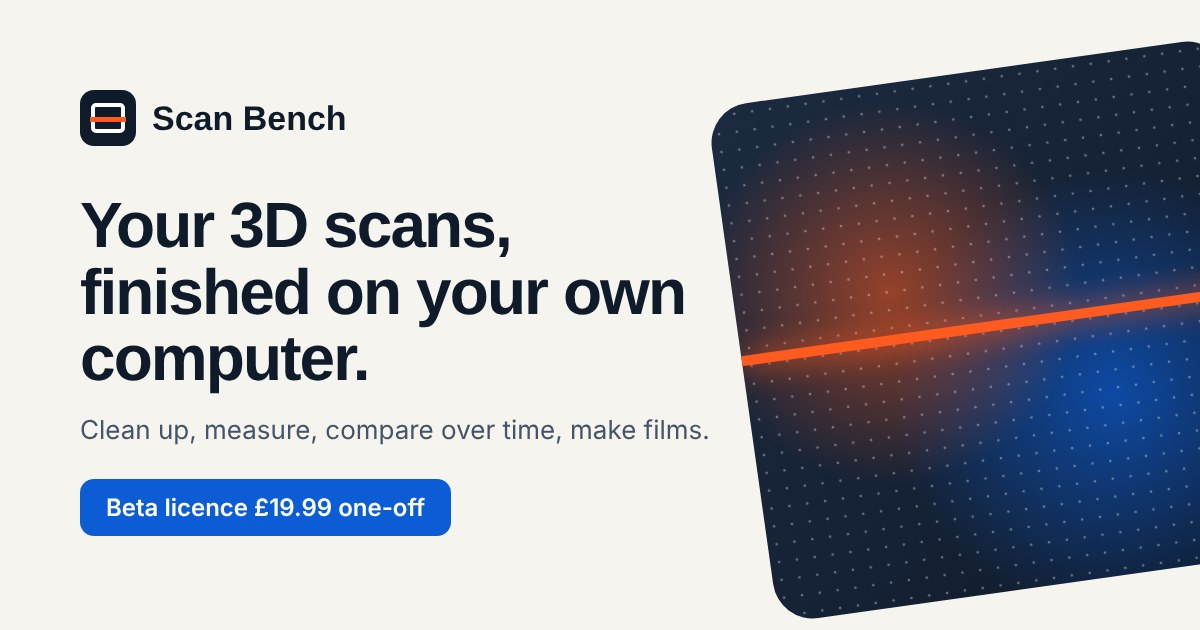
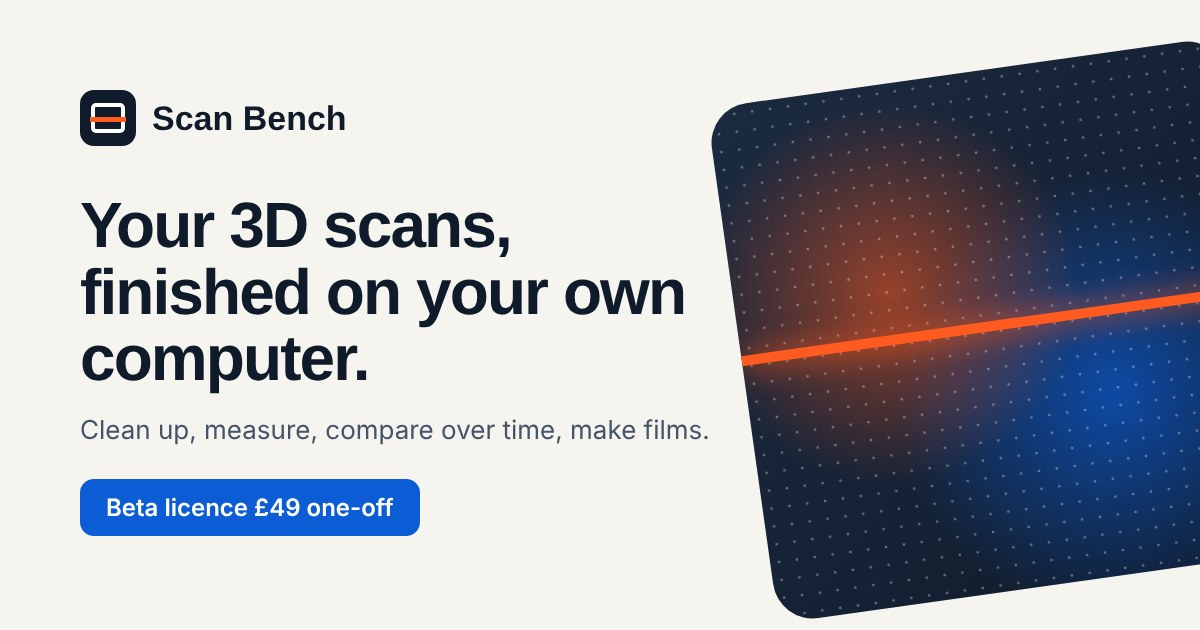
Website: beta price £49 inc. VAT
Claude-Session: https://claude.ai/code/session_01YWtuGUNTMvKgvANQvJYrwU

Changed region(s): [[0.2158, 0.754, 0.4008, 0.8746]]

diff --git a/site/terms.html b/site/terms.html
@@ -9,7 +9,7 @@
 <body>
 <header class="top"><div class="wrap"><a class="logo" href="index.html"><i></i>Scan Bench</a><nav class="menu"><a href="index.html">Home</a><a href="features.html">Features</a><a href="pricing.html">Pricing</a><a href="download.html">Buy</a><a href="help.html">Help</a><a href="contact.html">Contact</a></nav><a class="btn pri sm" href="download.html">Buy the beta</a><button class="burger" aria-label="Menu">☰</button></div></header>
 <main>
-<section class="band"><div class="wrap legal"><span class="eyebrow">Legal</span><h1>Terms of use</h1><p class="small">Last updated 20 October 2026</p><p>These terms cover buying and using Scan Bench. By buying a licence or using the app you agree to them. If you are buying as a consumer, nothing here takes away your legal rights.</p><h2>1. Who we are</h2><p>Scan Bench is made by Refresh Print Ltd, a company registered in England and Wales (company number 13642636), registered office 7 Carrier Street, Halifax, HX1 1DH, United Kingdom. We trade as Clearpath360. Email: <a href="mailto:info@clearpath360.co.uk">info@clearpath360.co.uk</a>.</p><h2>2. Who sells it to you</h2><p>Orders are processed by our reseller, Lemon Squeezy (Lemon Squeezy LLC), who acts as the merchant of record. They take the payment, charge any VAT or sales tax, and send your receipt. Their own checkout terms apply to the payment itself.</p><h2>3. Your licence</h2><p>When you buy, we give you a personal, non-transferable licence to install and use Scan Bench on up to 2 computers at a time, for your own work or your business. You can move the licence to another computer from Help &gt; Licence &gt; Move to another computer.</p><p>You may not: sell, rent, share or give away your licence key or the app; remove or get round the licence check; or copy, change or take apart the app, except where the law says you are allowed to.</p><p>The software stays ours. You own your scans, drawings, films and anything else you make with it.</p><h2>4. The beta</h2><p>Scan Bench is in beta. It is a working program that is still being improved, so it may have bugs, and features may change, move or be removed between updates. The beta licence is a one-off payment of £19.99 and covers every update while the beta runs. When the beta ends we expect to move to a subscription. We will tell beta testers the price and what happens to their beta licence before anything changes, and nothing will charge you again unless you choose to sign up.</p><h2>5. Licence checks</h2><p>The app checks your licence key online when you activate it and from time to time after that. It keeps working without internet for 14 days after the last good check. The check sends your licence key and a name for your computer, nothing about your scans.</p><h2>6. Measurements and results</h2><p>Scan Bench gives measurements, volumes, levels and drawings from the scans you open. Their accuracy depends on your scanner, your scan and how you use the tools. Check anything important (for example dimensions for construction, legal or safety purposes, or figures you will rely on for money) by another method before you rely on it. Scan Bench is not a certified survey instrument.</p><h2>7. Our responsibility to you</h2><p>If you are a consumer, you have legal rights in relation to digital content that is faulty or not as described, and these terms do not affect them. Advice about your rights is available from Citizens Advice.</p><p>We are not responsible for loss that was not foreseeable, for loss of data you have not backed up, or, if you use Scan Bench for business, for loss of profit, business or opportunity. Apart from that, if you use it for business our total responsibility to you is limited to the amount you paid for your licence.</p><p>Nothing in these terms limits our responsibility for death or personal injury caused by our negligence, for fraud, or for anything else that the law does not allow us to limit.</p><h2>8. Ending the licence</h2><p>You can stop using Scan Bench at any time. We may end your licence if you break these terms, for example by sharing your key. If that happens you must stop using the app.</p><h2>9. Changes to these terms</h2><p>We may update these terms, for example when the beta ends. We will put the new date at the top of this page, and tell you by email about any change that affects you significantly.</p><h2>10. Law</h2><p>These terms are governed by the law of England and Wales. If you are a consumer living in Scotland or Northern Ireland, you can also bring a claim in your local courts.</p><h2>Contact</h2><p>Questions about these terms: <a href="mailto:info@clearpath360.co.uk">info@clearpath360.co.uk</a>.</p></div></section>
+<section class="band"><div class="wrap legal"><span class="eyebrow">Legal</span><h1>Terms of use</h1><p class="small">Last updated 20 October 2026</p><p>These terms cover buying and using Scan Bench. By buying a licence or using the app you agree to them. If you are buying as a consumer, nothing here takes away your legal rights.</p><h2>1. Who we are</h2><p>Scan Bench is made by Refresh Print Ltd, a company registered in England and Wales (company number 13642636), registered office 7 Carrier Street, Halifax, HX1 1DH, United Kingdom. We trade as Clearpath360. Email: <a href="mailto:info@clearpath360.co.uk">info@clearpath360.co.uk</a>.</p><h2>2. Who sells it to you</h2><p>Orders are processed by our reseller, Lemon Squeezy (Lemon Squeezy LLC), who acts as the merchant of record. They take the payment, charge any VAT or sales tax, and send your receipt. Their own checkout terms apply to the payment itself.</p><h2>3. Your licence</h2><p>When you buy, we give you a personal, non-transferable licence to install and use Scan Bench on up to 2 computers at a time, for your own work or your business. You can move the licence to another computer from Help &gt; Licence &gt; Move to another computer.</p><p>You may not: sell, rent, share or give away your licence key or the app; remove or get round the licence check; or copy, change or take apart the app, except where the law says you are allowed to.</p><p>The software stays ours. You own your scans, drawings, films and anything else you make with it.</p><h2>4. The beta</h2><p>Scan Bench is in beta. It is a working program that is still being improved, so it may have bugs, and features may change, move or be removed between updates. The beta licence is a one-off payment of £49 and covers every update while the beta runs. When the beta ends we expect to move to a subscription. We will tell beta testers the price and what happens to their beta licence before anything changes, and nothing will charge you again unless you choose to sign up.</p><h2>5. Licence checks</h2><p>The app checks your licence key online when you activate it and from time to time after that. It keeps working without internet for 14 days after the last good check. The check sends your licence key and a name for your computer, nothing about your scans.</p><h2>6. Measurements and results</h2><p>Scan Bench gives measurements, volumes, levels and drawings from the scans you open. Their accuracy depends on your scanner, your scan and how you use the tools. Check anything important (for example dimensions for construction, legal or safety purposes, or figures you will rely on for money) by another method before you rely on it. Scan Bench is not a certified survey instrument.</p><h2>7. Our responsibility to you</h2><p>If you are a consumer, you have legal rights in relation to digital content that is faulty or not as described, and these terms do not affect them. Advice about your rights is available from Citizens Advice.</p><p>We are not responsible for loss that was not foreseeable, for loss of data you have not backed up, or, if you use Scan Bench for business, for loss of profit, business or opportunity. Apart from that, if you use it for business our total responsibility to you is limited to the amount you paid for your licence.</p><p>Nothing in these terms limits our responsibility for death or personal injury caused by our negligence, for fraud, or for anything else that the law does not allow us to limit.</p><h2>8. Ending the licence</h2><p>You can stop using Scan Bench at any time. We may end your licence if you break these terms, for example by sharing your key. If that happens you must stop using the app.</p><h2>9. Changes to these terms</h2><p>We may update these terms, for example when the beta ends. We will put the new date at the top of this page, and tell you by email about any change that affects you significantly.</p><h2>10. Law</h2><p>These terms are governed by the law of England and Wales. If you are a consumer living in Scotland or Northern Ireland, you can also bring a claim in your local courts.</p><h2>Contact</h2><p>Questions about these terms: <a href="mailto:info@clearpath360.co.uk">info@clearpath360.co.uk</a>.</p></div></section>
 </main>
 <footer><div class="wrap">
 <div><a class="logo" href="index.html"><i></i>Scan Bench</a><p style="margin-top:10px">Desktop software for 3D scans: clean them up, measure them, compare them over time and turn them into films.</p><p>Made in Halifax, West Yorkshire by Clearpath360 (Refresh Print Ltd)</p></div>

diff --git a/site/pricing.html b/site/pricing.html
@@ -1,7 +1,7 @@
 <!doctype html>
 <html lang="en-GB"><head><meta charset="utf-8"><meta name="viewport" content="width=device-width,initial-scale=1">
-<title>Pricing | Scan Bench</title><meta name="description" content="Scan Bench beta licence: £19.99 one-off, every feature.">
-<meta property="og:title" content="Pricing | Scan Bench"><meta property="og:description" content="Scan Bench beta licence: £19.99 one-off, every feature."><meta property="og:image" content="assets/og.jpg">
+<title>Pricing | Scan Bench</title><meta name="description" content="Scan Bench beta licence: £49 one-off, every feature.">
+<meta property="og:title" content="Pricing | Scan Bench"><meta property="og:description" content="Scan Bench beta licence: £49 one-off, every feature."><meta property="og:image" content="assets/og.jpg">
 <link rel="icon" href="assets/favicon.svg" type="image/svg+xml">
 <link rel="preconnect" href="https://fonts.googleapis.com"><link rel="preconnect" href="https://fonts.gstatic.com" crossorigin>
 <link href="https://fonts.googleapis.com/css2?family=Inter:wght@400;500;600;700&family=Space+Grotesk:wght@500;600;700&display=swap" rel="stylesheet">
@@ -11,11 +11,11 @@
 <main>
 <section class="band"><div class="wrap"><span class="eyebrow">Pricing</span><h1>One payment for the beta</h1><p>No subscription while Scan Bench is in beta. Pay once and use every feature.</p></div></section>
 <section style="padding-top:10px"><div class="wrap"><div class="plans">
-<div class="plan best"><span class="badge">Beta</span><h3>Scan Bench Beta licence</h3><div class="price">£19.99 <small>one-off</small></div><p style="color:var(--ink2)">Every feature and every update while the beta runs.</p><ul><li>Clean up, measure and drawings</li><li>Compare, timelapse and films</li><li>Volumes, levels and weather</li><li>Install on 2 computers</li><li>Email support</li></ul><a class="btn pri" href="https://clearpath360.lemonsqueezy.com/checkout/buy/9eeb3c10-cc0c-464e-9fe0-9597f391b988">Buy now, £19.99</a></div>
+<div class="plan best"><span class="badge">Beta</span><h3>Scan Bench Beta licence</h3><div class="price">£49 <small>one-off, inc. VAT</small></div><p style="color:var(--ink2)">Every feature and every update while the beta runs.</p><ul><li>Clean up, measure and drawings</li><li>Compare, timelapse and films</li><li>Volumes, levels and weather</li><li>Install on 2 computers</li><li>Email support</li></ul><a class="btn pri" href="https://clearpath360.lemonsqueezy.com/checkout/buy/9eeb3c10-cc0c-464e-9fe0-9597f391b988">Buy now, £49</a></div>
 <div class="plan"><h3>After the beta</h3><div class="price"><small>Subscription, price to follow</small></div><p style="color:var(--ink2)">When the beta ends, Scan Bench moves to a monthly or yearly plan.</p><ul><li>Beta testers hear about it first</li><li>We will tell you the price and what happens to your beta licence before anything changes</li><li>Nothing renews or charges you without you choosing to</li></ul><a class="btn sec" href="contact.html">Ask a question</a></div>
 </div></div></section>
 <section><div class="wrap" style="max-width:800px"><div class="head"><h2>Questions</h2></div>
-<details class="faq"><summary>Is it a subscription?</summary><p>Not during the beta. The beta licence is one payment of £19.99. After the beta, Scan Bench moves to a subscription, and beta testers are told the details first.</p></details>
+<details class="faq"><summary>Is it a subscription?</summary><p>Not during the beta. The beta licence is one payment of £49. After the beta, Scan Bench moves to a subscription, and beta testers are told the details first.</p></details>
 <details class="faq"><summary>Why a one-off price for the beta?</summary><p>So you can try it properly without signing up to ongoing costs, and tell us what to improve.</p></details>
 <details class="faq"><summary>Do my scans get uploaded anywhere?</summary><p>No. Scan Bench runs on your computer and opens your files there. The only thing it sends is a licence check and, if you allow it, crash reports so we can fix problems.</p></details>
 <details class="faq"><summary>What if it does not work for me?</summary><p>See the <a href="refunds.html">refund policy</a>, or <a href="contact.html">get in touch</a> and we will try to fix it first.</p></details>

diff --git a/site/refunds.html b/site/refunds.html
@@ -9,7 +9,7 @@
 <body>
 <header class="top"><div class="wrap"><a class="logo" href="index.html"><i></i>Scan Bench</a><nav class="menu"><a href="index.html">Home</a><a href="features.html">Features</a><a href="pricing.html">Pricing</a><a href="download.html">Buy</a><a href="help.html">Help</a><a href="contact.html">Contact</a></nav><a class="btn pri sm" href="download.html">Buy the beta</a><button class="burger" aria-label="Menu">☰</button></div></header>
 <main>
-<section class="band"><div class="wrap legal"><span class="eyebrow">Legal</span><h1>Refund policy</h1><p class="small">Last updated 20 October 2026</p><p>We want you to be happy with Scan Bench. If it does not work for you, you can have your money back.</p><h2>14 day money back</h2><p>If Scan Bench does not work for you, email us within 14 days of buying and we will refund the full £19.99. You do not need to give a reason, though we would like to hear what went wrong so we can fix it. Once refunded, your licence key stops working.</p><h2>After 14 days</h2><p>After 14 days we can still refund you if the app is faulty or not as described and we cannot fix it, in line with your legal rights.</p><h2>How refunds are paid</h2><p>Refunds are made by our reseller, Lemon Squeezy, back to the card or account you paid with. They usually show within 5 to 10 working days, depending on your bank.</p><h2>How to ask</h2><p>Email <a href="mailto:info@clearpath360.co.uk">info@clearpath360.co.uk</a> from the address you bought with, with your order number if you have it (it is on your receipt).</p><h2>Your legal rights</h2><p>This policy is in addition to your legal rights as a consumer, not instead of them.</p></div></section>
+<section class="band"><div class="wrap legal"><span class="eyebrow">Legal</span><h1>Refund policy</h1><p class="small">Last updated 20 October 2026</p><p>We want you to be happy with Scan Bench. If it does not work for you, you can have your money back.</p><h2>14 day money back</h2><p>If Scan Bench does not work for you, email us within 14 days of buying and we will refund the full £49. You do not need to give a reason, though we would like to hear what went wrong so we can fix it. Once refunded, your licence key stops working.</p><h2>After 14 days</h2><p>After 14 days we can still refund you if the app is faulty or not as described and we cannot fix it, in line with your legal rights.</p><h2>How refunds are paid</h2><p>Refunds are made by our reseller, Lemon Squeezy, back to the card or account you paid with. They usually show within 5 to 10 working days, depending on your bank.</p><h2>How to ask</h2><p>Email <a href="mailto:info@clearpath360.co.uk">info@clearpath360.co.uk</a> from the address you bought with, with your order number if you have it (it is on your receipt).</p><h2>Your legal rights</h2><p>This policy is in addition to your legal rights as a consumer, not instead of them.</p></div></section>
 </main>
 <footer><div class="wrap">
 <div><a class="logo" href="index.html"><i></i>Scan Bench</a><p style="margin-top:10px">Desktop software for 3D scans: clean them up, measure them, compare them over time and turn them into films.</p><p>Made in Halifax, West Yorkshire by Clearpath360 (Refresh Print Ltd)</p></div>

diff --git a/site/download.html b/site/download.html
@@ -9,9 +9,9 @@
 <body>
 <header class="top"><div class="wrap"><a class="logo" href="index.html"><i></i>Scan Bench</a><nav class="menu"><a href="index.html">Home</a><a href="features.html">Features</a><a href="pricing.html">Pricing</a><a href="download.html">Buy</a><a href="help.html">Help</a><a href="contact.html">Contact</a></nav><a class="btn pri sm" href="download.html">Buy the beta</a><button class="burger" aria-label="Menu">☰</button></div></header>
 <main>
-<section class="band"><div class="wrap"><span class="eyebrow">Beta</span><h1>Get the Scan Bench beta</h1><p>One payment of £19.99. You get the Windows download and your licence key by email straight away.</p></div></section>
+<section class="band"><div class="wrap"><span class="eyebrow">Beta</span><h1>Get the Scan Bench beta</h1><p>One payment of £49. You get the Windows download and your licence key by email straight away.</p></div></section>
 <section style="padding-top:10px"><div class="wrap grid2" style="align-items:start">
-<div class="plan best"><span class="badge">Beta</span><h3>Scan Bench Beta licence</h3><div class="price">£19.99 <small>one-off</small></div><ul><li>The full Windows app, every tool</li><li>Every update while the beta runs</li><li>Use it on 2 computers (move it to a new one any time)</li><li>Email support from the developer</li><li>14 day money back if it does not work for you</li></ul><a class="btn pri" href="https://clearpath360.lemonsqueezy.com/checkout/buy/9eeb3c10-cc0c-464e-9fe0-9597f391b988">Buy now, £19.99</a><p class="small" style="margin-top:10px">Secure checkout by Lemon Squeezy, who handle the payment and VAT for us.</p></div>
+<div class="plan best"><span class="badge">Beta</span><h3>Scan Bench Beta licence</h3><div class="price">£49 <small>one-off, inc. VAT</small></div><ul><li>The full Windows app, every tool</li><li>Every update while the beta runs</li><li>Use it on 2 computers (move it to a new one any time)</li><li>Email support from the developer</li><li>14 day money back if it does not work for you</li></ul><a class="btn pri" href="https://clearpath360.lemonsqueezy.com/checkout/buy/9eeb3c10-cc0c-464e-9fe0-9597f391b988">Buy now, £49</a><p class="small" style="margin-top:10px">Secure checkout by Lemon Squeezy, who handle the payment and VAT for us.</p></div>
 <div class="card"><h3>What happens next</h3><ol><li>Pay at the checkout.</li><li>Your receipt email has the download link and your licence key.</li><li>Install Scan Bench and open it.</li><li>Type your email and the key once. That is it.</li></ol><h3 style="margin-top:18px">Before you buy</h3><ul><li>Windows 10 or 11, with a graphics card from the last 8 years or so</li><li>Opens XGRIDS LCC folders, PLY, E57, SPZ, SPLAT and SOG</li><li>It needs internet once to activate, then at least once every 14 days</li><li>Your scans stay on your computer: nothing is uploaded</li></ul><p class="small">Questions first? <a href="contact.html">Get in touch</a>.</p></div>
 </div></section>
 </main>

diff --git a/site/index.html b/site/index.html
@@ -36,7 +36,7 @@
   <div class="card"><div class="ic"><svg viewBox="0 0 24 24"><rect x="5" y="11" width="14" height="10" rx="2"/><path d="M8 11V7a4 4 0 018 0v4"/></svg></div><h3>Private by design</h3><p>No cloud, no upload, no waiting in a queue. Your client's site stays on your computer.</p></div>
  </div>
 </div></section>
-<section><div class="wrap"><div class="ctaband"><h2>Be one of the first to use it.</h2><p>A small beta for scanner owners. One payment of £19.99 for the beta licence, every feature included. Tell us what you scan and you will get early access.</p><a class="btn pri" href="download.html">Buy the beta</a></div></div></section>
+<section><div class="wrap"><div class="ctaband"><h2>Be one of the first to use it.</h2><p>A small beta for scanner owners. One payment of £49 for the beta licence, every feature included. Tell us what you scan and you will get early access.</p><a class="btn pri" href="download.html">Buy the beta</a></div></div></section>
 
 </main>
 <footer><div class="wrap">
